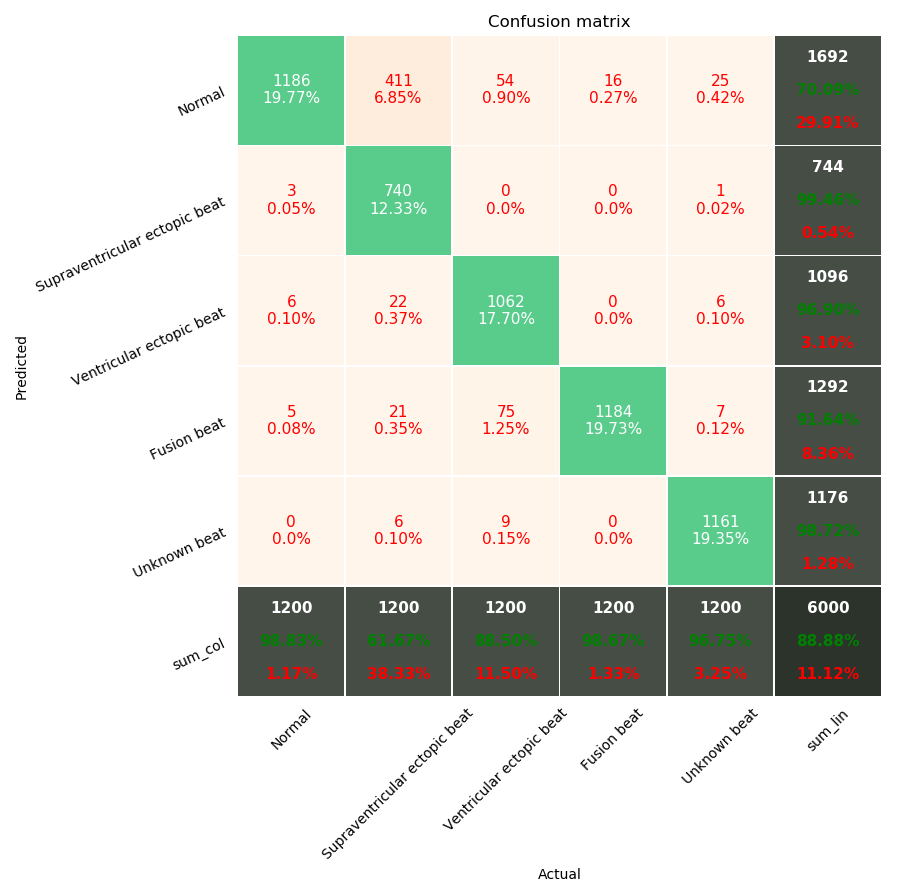
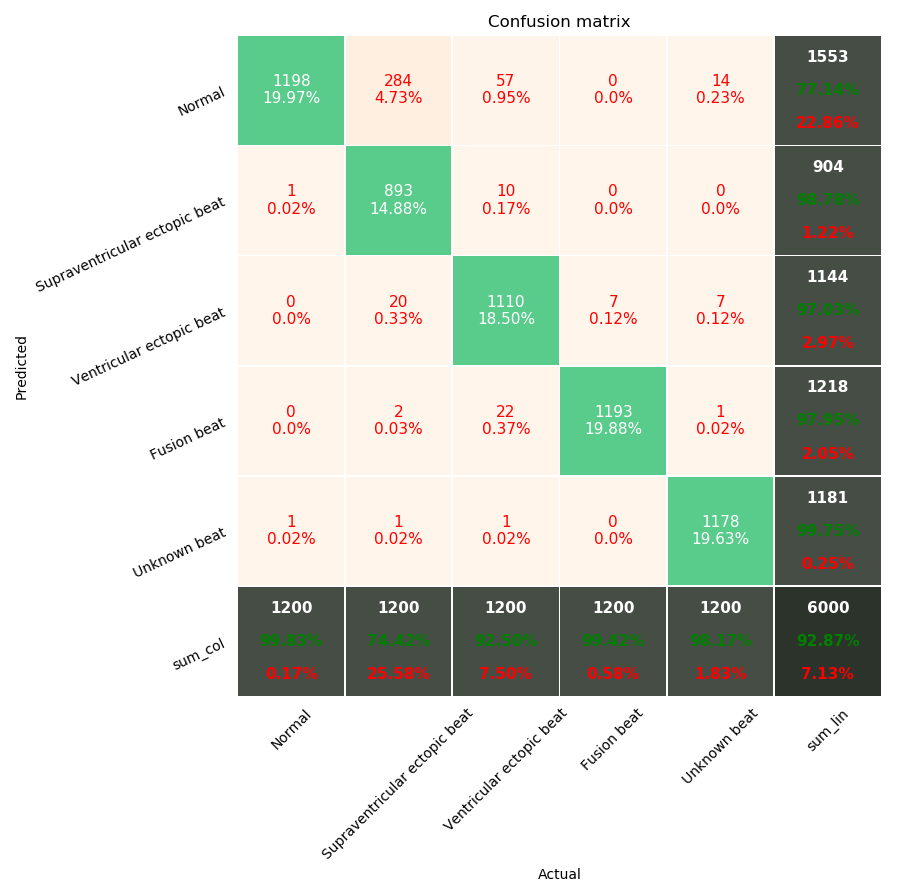
Update: Added exponential decay for learning rate

diff --git a/arrdetection/cnn/elevencnnlayers/classifier.py b/arrdetection/cnn/elevencnnlayers/classifier.py
@@ -16,6 +16,8 @@ from keras.utils import plot_model
 from keras import regularizers
 from sklearn.metrics import classification_report
 from confusion_matrix import plot_confusion_matrix_from_data
+from keras.callbacks import LearningRateScheduler
+from sklearn.preprocessing import OneHotEncoder
 
 class_names = ['Normal', 'Supraventricular ectopic beat', 'Ventricular ectopic beat', 'Fusion beat', 'Unknown beat']
 num_classes = 5
@@ -24,14 +26,18 @@ batch_size = 256
 data_root = '../../data/'
 num_features = (187)
 
-(x_train, y_train), (x_test, y_test) = load_data(data_root)
+(X_train, y_train), (X_test, y_test) = load_data(data_root)
 
-print("Train shapes:", x_train.shape, y_train.shape)
-print("Test shapes:", x_test.shape, y_test.shape)
+X_train = np.expand_dims(X_train, 2)
+X_test = np.expand_dims(X_test, 2)
+
+print("Train shapes:", X_train.shape, y_train.shape)
+print("Test shapes:", X_test.shape, y_test.shape)
 
 # convert class vectors to binary class matrices
 y_train = to_categorical(y_train, num_classes)
 y_test = to_categorical(y_test, num_classes)
+
 
 inp = Input(shape=(num_features, 1))
 C = Conv1D(filters=32, kernel_size=5, strides=1)(inp)
@@ -91,10 +97,19 @@ model.compile(loss='categorical_crossentropy',
               optimizer=keras.optimizers.Adam(lr=1e-4, beta_1=0.9, beta_2=0.999),
               metrics=['accuracy', precision, recall])
 
-model.fit(x=x_train, y=y_train, epochs=num_epochs, batch_size=batch_size, shuffle=True)
+def exp_decay(epoch):
+    initial_lrate = 0.001
+    k = 0.75
+    t = n_obs//(10000 * batch_size)  # every epoch we do n_obs/batch_size iteration
+    lrate = initial_lrate * math.exp(-k*t)
+    return lrate
+
+lrate = LearningRateScheduler(exp_decay)
+
+model.fit(x=X_train, y=y_train, epochs=num_epochs, batch_size=batch_size, callbacks=[lrate], validation_data=(X_test, y_test))
 
 
-y_pred = model.predict(x_test)
+y_pred = model.predict(X_test)
 y_pred = np.argmax(y_pred, axis=1)
 print(y_pred)
 y_test = np.argmax(y_test, axis=1) # Convert one-hot to index

diff --git a/arrdetection/tools/utils.py b/arrdetection/tools/utils.py
@@ -30,11 +30,11 @@ def load_data(data_path):
     X = np.vstack([X, result])
     y = np.hstack([y, classe])
 
-    subC0 = np.random.choice(C0, 1200)
-    subC1 = np.random.choice(C1, 1200)
-    subC2 = np.random.choice(C2, 1200)
-    subC3 = np.random.choice(C3, 1200)
-    subC4 = np.random.choice(C4, 1200)
+    subC0 = np.random.choice(C0, 800)
+    subC1 = np.random.choice(C1, 800)
+    subC2 = np.random.choice(C2, 800)
+    subC3 = np.random.choice(C3, 800)
+    subC4 = np.random.choice(C4, 800)
 
     X_test = np.vstack([X[subC0], X[subC1], X[subC2], X[subC3], X[subC4]])
     y_test = np.hstack([y[subC0], y[subC1], y[subC2], y[subC3], y[subC4]])

diff --git a/arrdetection/tools/config.py b/arrdetection/tools/config.py
@@ -2,5 +2,5 @@
 TRAIN_FILE_NAME = 'mitbih_train.csv'
 TEST_FILE_NAME = 'mitbih_test.csv'
 
-AUGMENT_N_TIMES = 20
+AUGMENT_N_TIMES = 4
 NUM_FEATURES = 188
